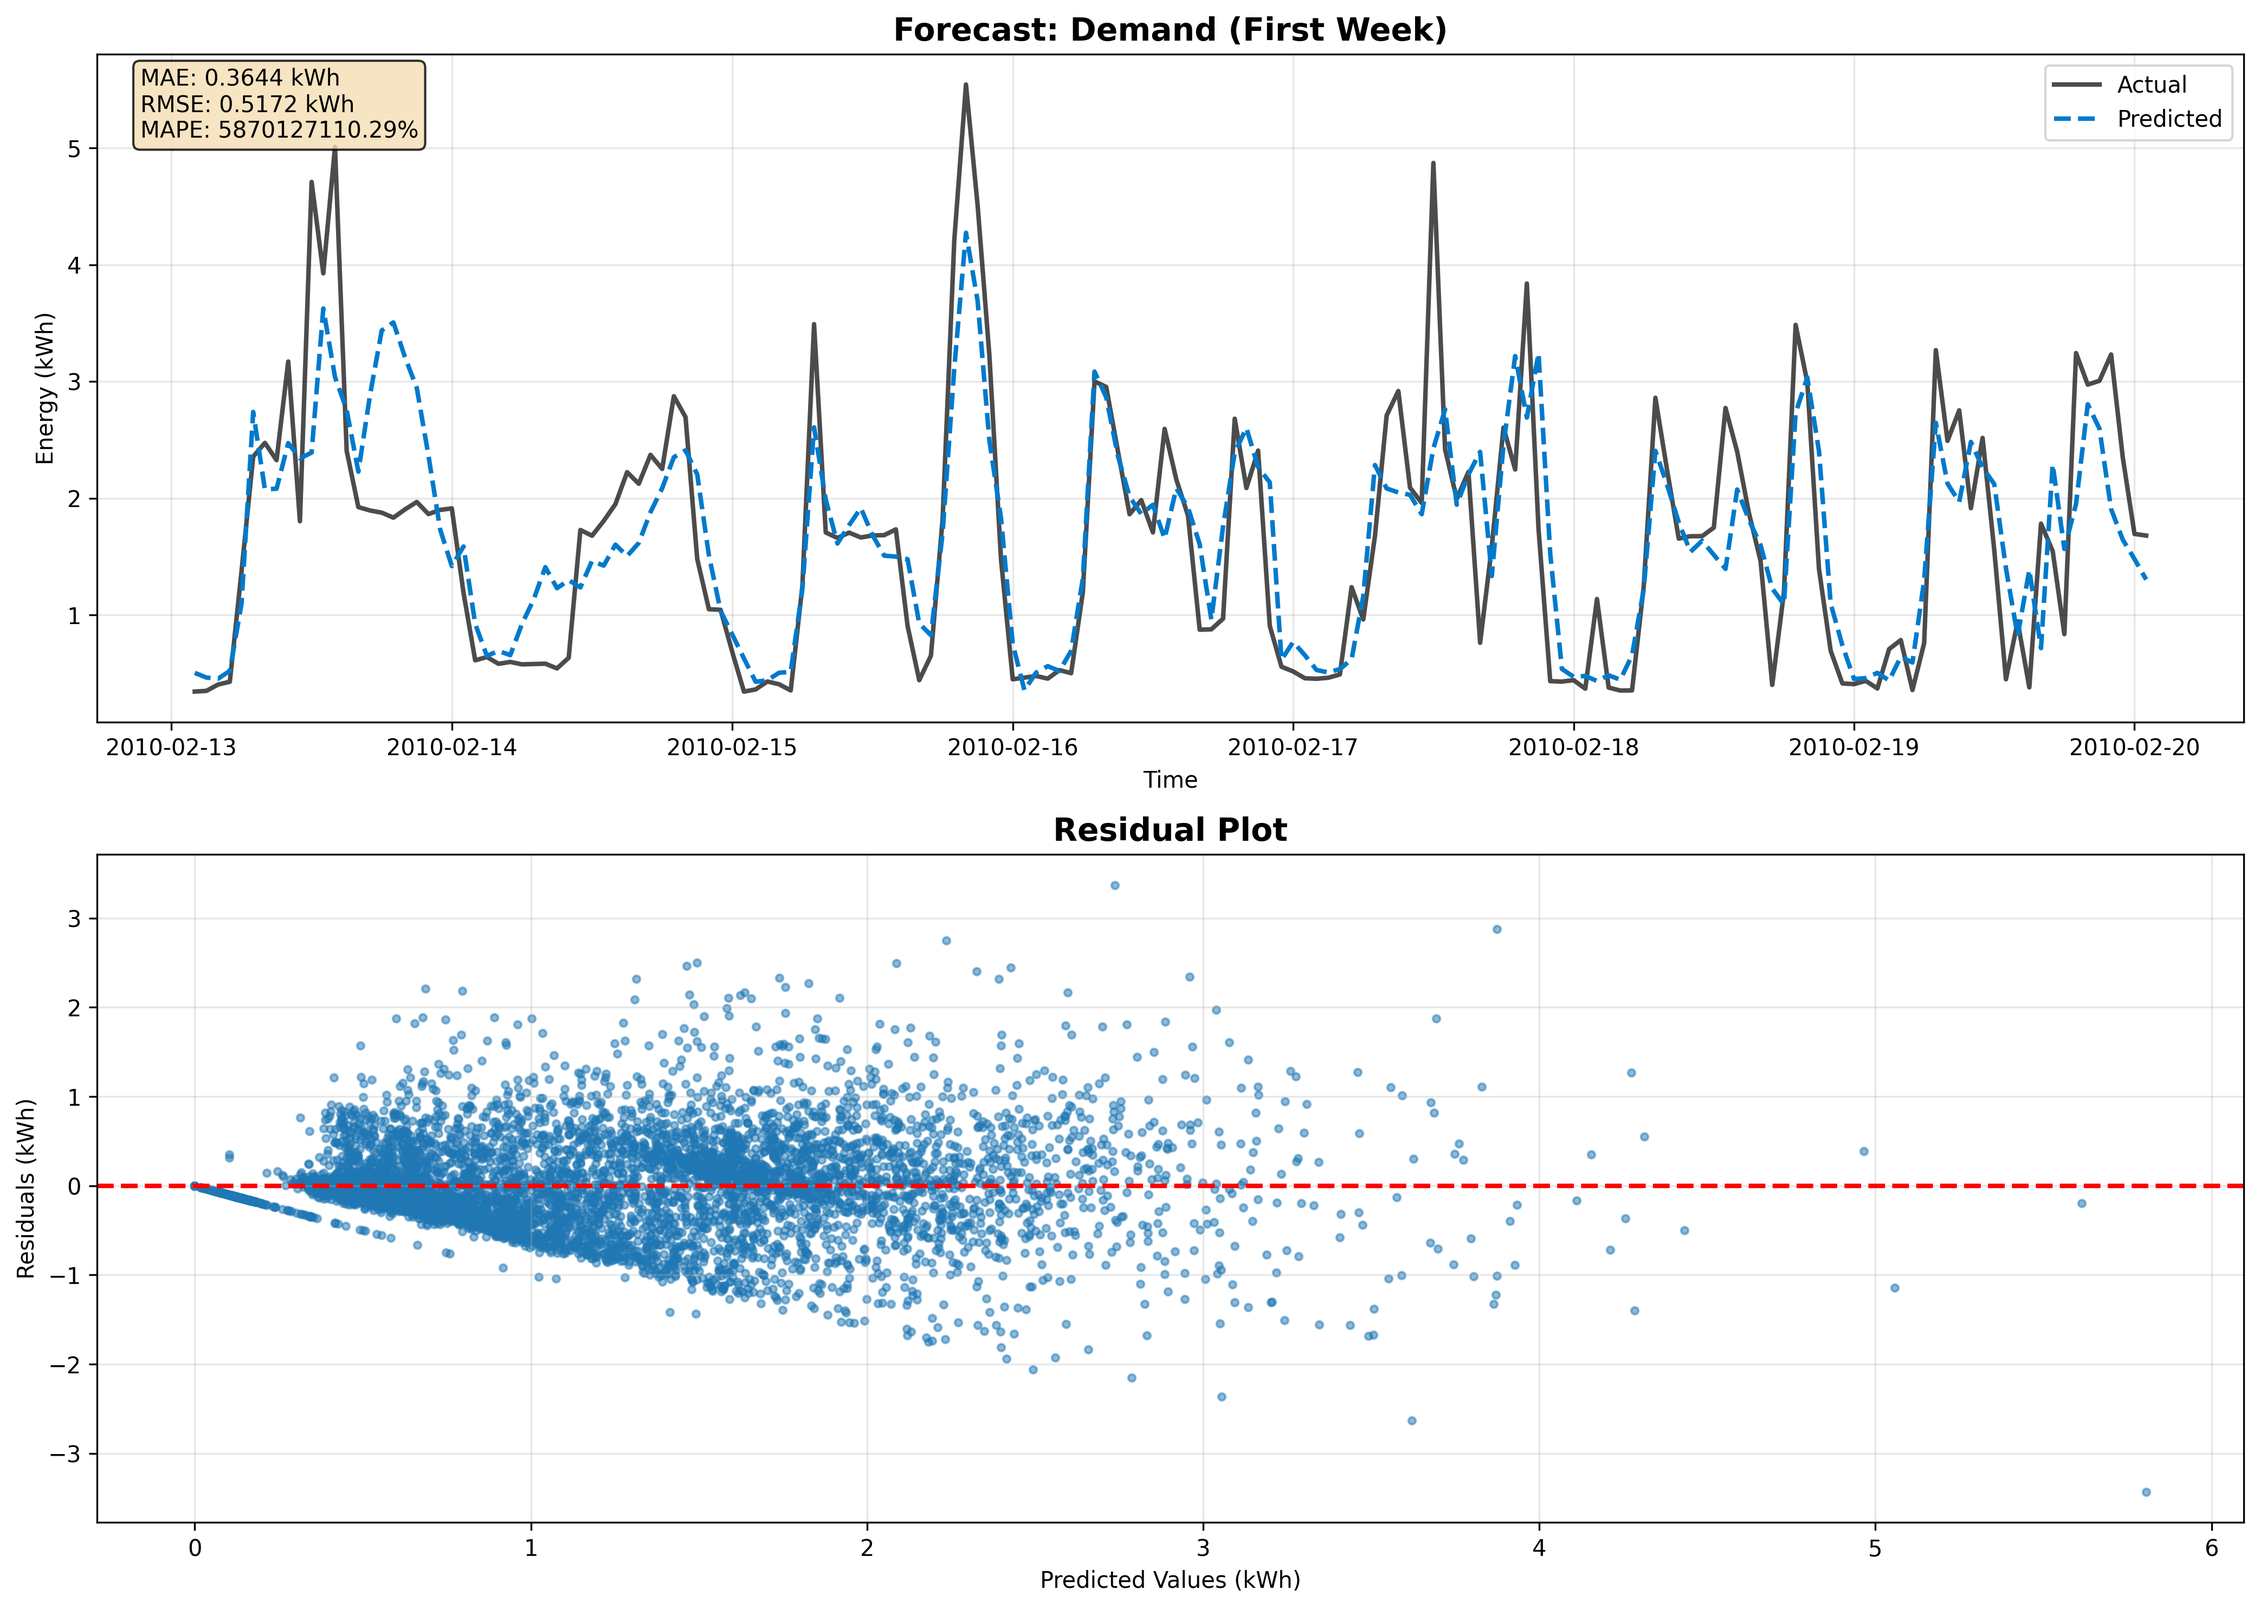
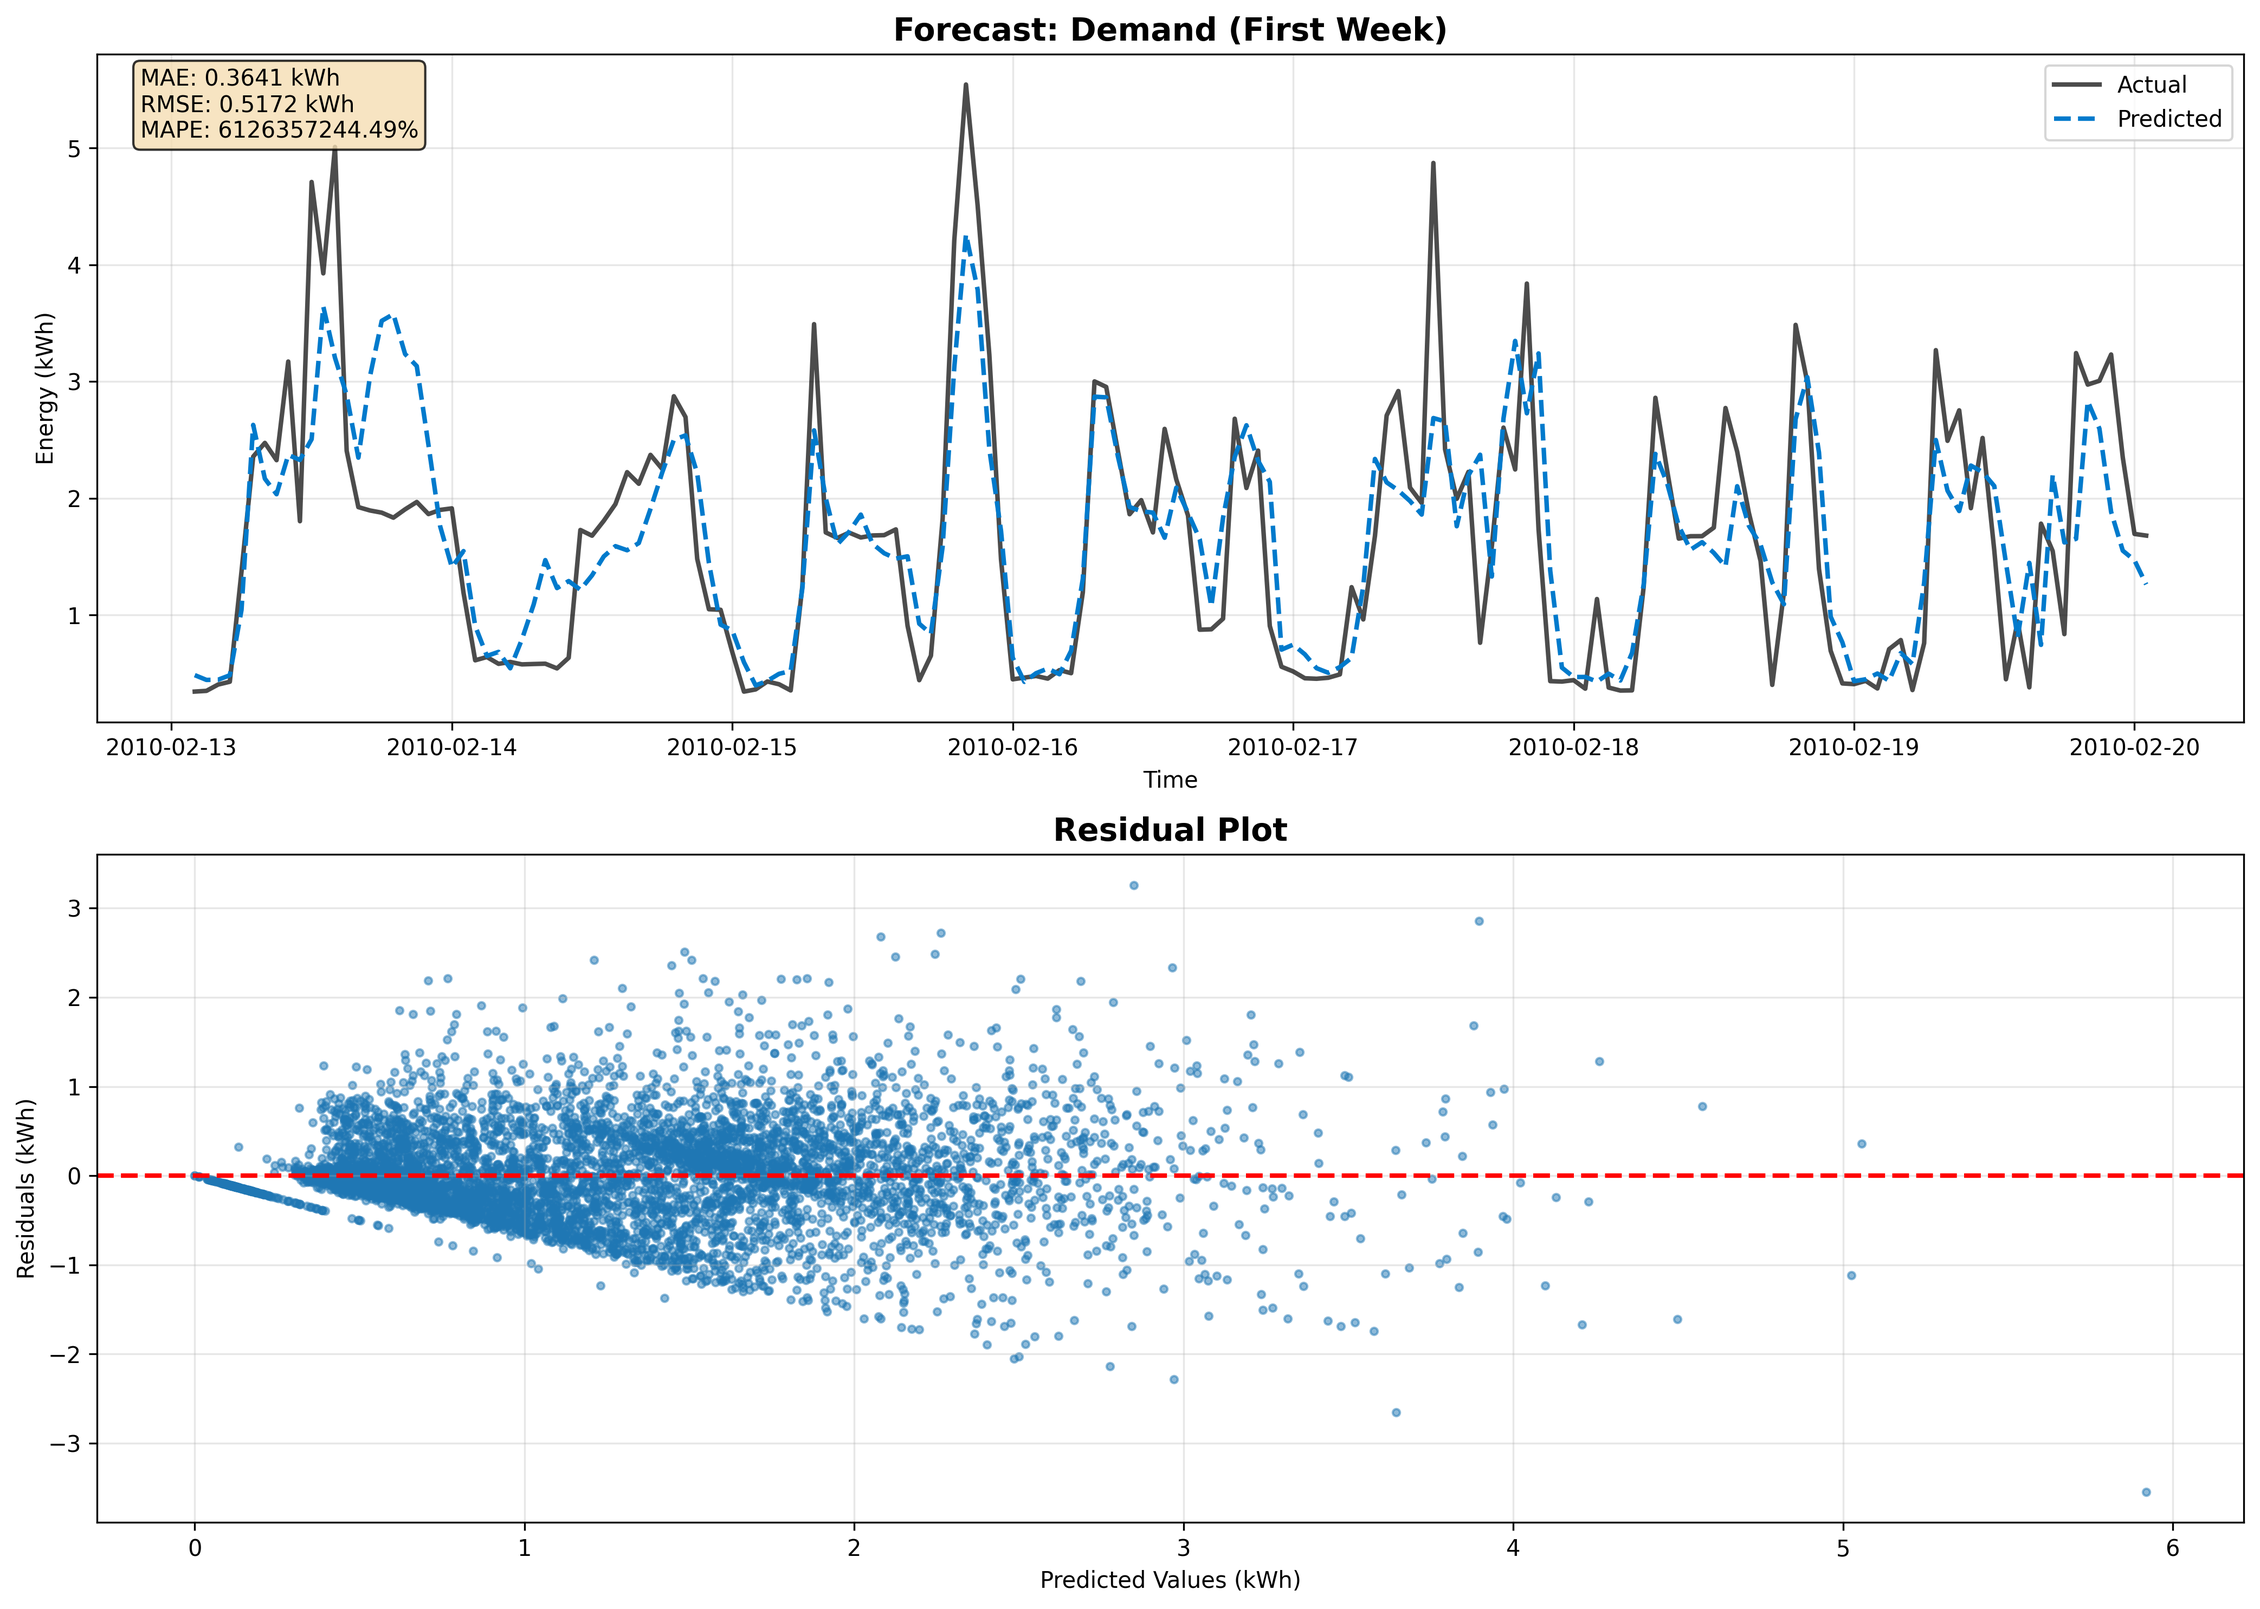
the weekend now affects the demand from mock_uci()

diff --git a/pre-processing/microrid_preprocessing.py b/pre-processing/microrid_preprocessing.py
@@ -73,12 +73,52 @@ class MicrogridPreprocessor:
         print("⚠ No UCI file provided. Generating synthetic demand data...")
         dates = pd.date_range(start="2008-01-01", end="2008-01-10 23:00:00", freq="H")
         df = pd.DataFrame(index=dates)
-        # Synthetic daily demand curve
+
         hour = df.index.hour
-        base_load = 0.5
-        peak_load = (hour > 17) & (hour < 22)
-        df['demand_kwh'] = base_load + (peak_load * 1.5) + np.random.normal(0, 0.1, len(df))
+        dayofweek = df.index.dayofweek  # 0=Mon, ..., 5=Sat, 6=Sun
+        is_weekend = (dayofweek >= 5).astype(int)
+
+        # ===============================
+        # Weekday Demand Pattern
+        # ===============================
+        # Early morning spike (6-9 AM)
+        morning_peak = np.where((hour >= 6) & (hour <= 9), 0.5, 0)
+
+        # Evening peak (5 PM – 10 PM)
+        evening_peak = np.where((hour >= 17) & (hour <= 22), 1.5, 0)
+
+        # Base weekday load
+        weekday_load = 0.4 + morning_peak + evening_peak
+
+        # ===============================
+        # Weekend Demand Pattern
+        # ===============================
+        # People wake up later → later morning peak (9–12)
+        wk_morning_peak = np.where((hour >= 9) & (hour <= 12), 0.6, 0)
+
+        # Slightly higher daytime usage (home all day)
+        wk_day_usage = np.where((hour >= 12) & (hour <= 16), 0.3, 0)
+
+        # Slightly higher evening usage
+        wk_evening_peak = np.where((hour >= 18) & (hour <= 23), 1.7, 0)
+
+        # Base weekend load
+        weekend_load = 0.5 + wk_morning_peak + wk_day_usage + wk_evening_peak
+
+        # ===============================
+        # Combine weekday + weekend
+        # ===============================
+        df['demand_kwh'] = (
+            (1 - is_weekend) * weekday_load +
+            (is_weekend) * weekend_load
+        )
+
+        # Add Gaussian noise for randomness
+        df['demand_kwh'] += np.random.normal(0, 0.1, len(df))
+
+        # Ensure demand never drops below 0.1
         df['demand_kwh'] = df['demand_kwh'].clip(lower=0.1)
+
         return df
 
     # ==========================================
@@ -117,20 +157,7 @@ class MicrogridPreprocessor:
 
         print("Step 2: Simulating Physics-Based Solar Generation...")
         df = self.calculate_solar_physics(df)
-        # How many zeros overall
-        print("Total rows:", len(df))
-        print("Zero generation count:", (df['generation_kwh'] == 0).sum())
-
-        # Zero counts by hour of day (helps see if concentrated at night)
-        zero_by_hour = df['generation_kwh'].eq(0).groupby(df.index.hour).sum()
-        print("Zero generation by hour (0-23):")
-        print(zero_by_hour)
-
-        # Inspect some daytime zero rows (e.g., between 8 and 17)
-        daytime_zeros = df[(df.index.hour.between(6,18)) & (df['generation_kwh'] == 0)]
-        print("Daytime zero sample (first 10):")
-        print(daytime_zeros.head(10))
-
+        
         print("Step 3: Generating Temperature...")
         # FIX: Align seasonal peak to April/May (Bengaluru Summer)
         # Bengaluru Peak heat is around April (Day 110)
